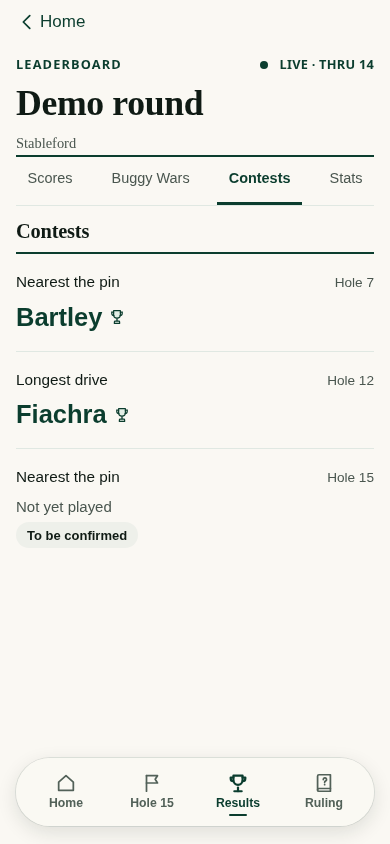
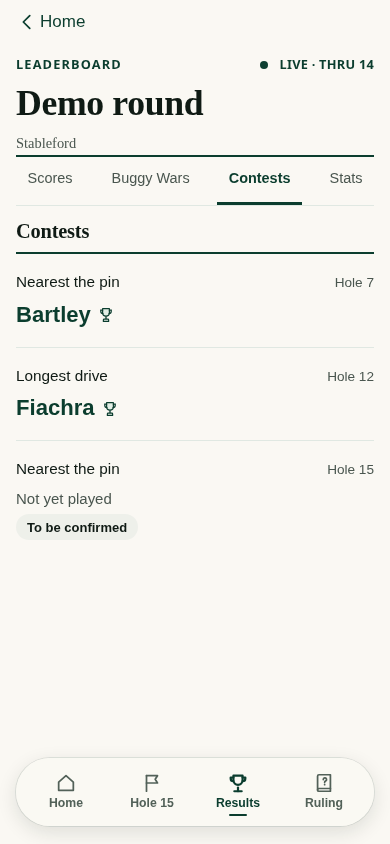
Align imported results, highlight tied leaders and retain readable final status

diff --git a/src/app/30-play.js b/src/app/30-play.js
@@ -856,7 +856,7 @@ VIEWS.board = () => {
   const fromSt = typeof stackOf === 'function' ? stackOf() : UI.stack;
   const backTo = fromSt && fromSt.length > 1 && fromSt[fromSt.length - 1].v === 'board' ? navBack(backLabel()) : '';
   const page = html => ({ tabs: 'board', html: `<div class="results-page">${html}</div>` });
-  let html = `${backTo}<header class="hero c lbhead"><div class="results-meta"><span>Leaderboard</span>${live0 ? `<span class="results-live"><span class="pulse"></span>Live${thru0 ? ' · thru ' + thru0 : ''}</span>` : statusPill(r)}</div><div class="hrow2"><h1 class="big">${esc(roundName(r))}</h1></div><p class="sub">${isScramble(r) ? 'Team scramble' : 'Stableford'}${r.date ? ' · ' + esc(fmtDate(r.date, true)) : ''}</p></header>`;
+  let html = `${backTo}<header class="hero c lbhead"><div class="results-meta"><span>Leaderboard</span>${live0 ? `<span class="results-live"><span class="pulse"></span>Live${thru0 ? ' · thru ' + thru0 : ''}</span>` : r.status === 'final' ? '<span class="pill g">Final</span>' : statusPill(r)}</div><div class="hrow2"><h1 class="big">${esc(roundName(r))}</h1></div><p class="sub">${isScramble(r) ? 'Team scramble' : 'Stableford'}${r.date ? ' · ' + esc(fmtDate(r.date, true)) : ''}</p></header>`;
   if (avail.length > 1) {
     const names = { lb: 'Scores', bw: 'Buggy Wars', ct: 'Contests', st: 'Stats' };
     html += `<div class="seg pills${avail.length > 3 ? ' four' : ''}" role="tablist">${avail.map(k => `<button class="${pillSel === k ? 'on' : ''}" role="tab" data-act="respill" data-p="${k}" aria-selected="${pillSel === k}">${names[k]}</button>`).join('')}</div>`;
@@ -880,9 +880,9 @@ VIEWS.board = () => {
   }
 
   if (res.source === 'scramble') return page(html + scrambleTable(r, res));
-  html += sec('', `<div class="standings"><div class="standings-head" aria-hidden="true"><span>Pos</span><span>Player</span><span>Pts</span></div>${cardOf(res.rows.map(x => {
+  html += sec('', `<div class="standings${res.source === 'app' ? ' expandable' : ''}"><div class="standings-head" aria-hidden="true"><span>Pos</span><span>Player</span><span>Pts</span></div>${cardOf(res.rows.map(x => {
     const inner = `<span class="sub">${x.posLabel}<span class="vh"> position</span></span>${avName(x, lbSub(res.rows, x, r), x.pos === 1)}<span class="r"><span class="b">${x.total}<span class="vh"> points</span></span>${res.source === 'app' ? dropChev : ''}</span>`;
-    return res.source === 'app' ? dropRow(sel, x, inner) : `<button class="lrow" data-act="player" data-pid="${x.id}" data-year="${r.season || ''}">${inner}</button>`;
+    return res.source === 'app' ? dropRow(sel, x, inner, `lrow${x.pos === 1 ? ' is-leader' : ''}`) : `<button class="lrow${x.pos === 1 ? ' is-leader' : ''}" data-act="player" data-pid="${x.id}" data-year="${r.season || ''}">${inner}</button>`;
   }).join(''))}</div>`, true);
   if (res.kb.length) { const low = E.kbLowest(res.kb); html += sec(label('KBs'), cardOf(res.kb.map(k => `<div class="lrow${low.includes(k) ? ' low' : ''}"><span class="sub">${k.posLabel}</span><span>${esc(k.name)}</span><span class="b r">${k.total}</span></div>`).join(''))); }
   html += `<button class="btn quiet" data-act="results" data-rid="${sel}">Share results</button>`;

diff --git a/src/styles.css b/src/styles.css
@@ -2169,7 +2169,8 @@ h1.title:not(.is-name), h1.big, .hrow2 h1.big { font-variant-numeric: lining-num
 .standings-head > :last-child { text-align: right; }
 .standings > .card { border-radius: 0; border: 0; box-shadow: none; background: transparent; overflow: visible; }
 .standings .lrow { min-height: 62px; padding-top: 10px; padding-bottom: 10px; background: transparent; border-top: 1px solid var(--line); }
-.standings .lrow:first-child { border-top: 2px solid var(--pine); background: var(--green-soft); }
+.standings .lrow:first-child { border-top: 2px solid var(--pine); }
+.standings .lrow.is-leader { background: var(--green-soft); }
 .standings .lrow .av { display: none; }
 .standings .lrow .lname { font-size: 1rem; font-weight: 600; }
 .standings .lrow > .sub { font-size: .9rem; font-weight: 500; }
@@ -2203,16 +2204,17 @@ h1.title:not(.is-name), h1.big, .hrow2 h1.big { font-variant-numeric: lining-num
 .results-page .ct-l { max-width: none; width: 100%; display: flex; flex-direction: row; justify-content: space-between; align-items: baseline; gap: 16px; font-size: .9rem; font-weight: 500; }
 .results-page .ct-l .sub { font-size: .8rem; white-space: nowrap; }
 .results-page .ct-r { align-items: flex-start; text-align: left; gap: 6px; }
-.results-page .ct-r .b { font-size: 1.5rem; line-height: 1.2; font-weight: 600; color: var(--pine); }
+.results-page .ct-r .b { font-size: 1.3rem; line-height: 1.2; font-weight: 600; color: var(--pine); }
 @media (min-width: 600px) {
   .results-page .sbadges { grid-template-columns: repeat(2, minmax(0, 1fr)); column-gap: 32px; }
   .results-page .sbd:nth-child(2) { border-top: 2px solid var(--pine); }
 }
 
 .results-page > .sec { margin-top: 12px; }
-.results-page .standings-head > :last-child { padding-right: 20px; }
+.results-page .standings.expandable .standings-head > :last-child { padding-right: 20px; }
 
 .results-page .scr-standings .card { border-radius: 0; border: 0; box-shadow: none; background: transparent; }
 .results-page .scr-standings .scr-row { border-top: 1px solid var(--line); background: transparent; padding: 14px 12px; }
 .results-page .scr-standings .scr-row:first-child { border-top: 2px solid var(--pine); }
 .results-page .scr-standings .scr-row.low { background: var(--green-soft); border-left: 3px solid var(--pine); }
+.results-page .results-meta .pill { background: var(--green-soft); color: var(--pine); font-size: .7rem; letter-spacing: .04em; }

diff --git a/src/app/20-society.js b/src/app/20-society.js
@@ -306,7 +306,7 @@ VIEWS.players = () => {
 };
 
 function goyRow(x, season) {
-  return `<button class="lrow goy" aria-label="${esc(x.name)}, position ${esc(x.posLabel)}, ${x.total} points. Counting scores: ${x.counting.map(c => c.pts).join(', ')}" data-act="player" data-pid="${x.id}" data-year="${season}"><span class="sub">${x.posLabel}</span>${avName(x, `<span class="chips">${x.counting.map(c => `<i class="chipn">${c.pts}</i>`).join('')}</span>`, false, true)}<span class="b r tot">${x.total}</span></button>`;
+  return `<button class="lrow goy${x.pos === 1 ? ' is-leader' : ''}" aria-label="${esc(x.name)}, position ${esc(x.posLabel)}, ${x.total} points. Counting scores: ${x.counting.map(c => c.pts).join(', ')}" data-act="player" data-pid="${x.id}" data-year="${season}"><span class="sub">${x.posLabel}</span>${avName(x, `<span class="chips">${x.counting.map(c => `<i class="chipn">${c.pts}</i>`).join('')}</span>`, false, true)}<span class="b r tot">${x.total}</span></button>`;
 }
 
 VIEWS.goy = () => {

diff --git a/docs/review/RESULTS-REFINEMENT-2026-10-29.md b/docs/review/RESULTS-REFINEMENT-2026-10-29.md
@@ -5,7 +5,7 @@ A working-app design candidate based on released main `b2d849d`. The owner asked
 ## Design decisions
 
 - **The competition leads.** The course replaces the generic large Leaderboard title; Leaderboard and live/final state remain in a small masthead. Format/date sit underneath. The repeated round-title section is removed.
-- **Scores read as a ledger.** Rank, player and points have aligned column headings. Initials circles are removed from these standings, with full player names and progress retained. A quiet first-row tint and pine rule establish the hierarchy. Tap-to-expand scorecards still work.
+- **Scores read as a ledger.** Rank, player and points have aligned column headings. Initials circles are removed from these standings, with full player names and progress retained. A quiet tint on every shared leader and a pine rule establish the hierarchy. Tap-to-expand scorecards still work.
 - **Results navigation is quieter.** Underlined text tabs replace four competing outlined pills within this screen. The main glass navigation and primary action buttons retain their approved forms. Selection remains explicit and touch targets remain generous.
 - **The season belongs to the same family.** A clear season label, restrained leader panel and matching standings replace the oversized summary and collection of score badges. Counting scores remain visible as simple separated values; archive controls and eligibility are unchanged.
 - **Contests celebrate the result.** Each contest names the challenge and hole, then gives the golfer's name the prominence. Existing provisional, confirmed, nobody and waiting states are retained; no winner is inferred from an unfinished contest.
@@ -24,6 +24,12 @@ All pairs show the same fixture and 390px phone width. Full-page images include 
 | Season | ![Previous season standings](results-refinement-2026-10-29/before-goy.png) | ![Refined season standings](results-refinement-2026-10-29/after-goy.png) |
 | Contests | ![Previous contests](results-refinement-2026-10-29/before-contests.png) | ![Refined contests](results-refinement-2026-10-29/after-contests.png) |
 | Stats | ![Previous round statistics](results-refinement-2026-10-29/before-stats.png) | ![Refined match report](results-refinement-2026-10-29/after-stats.png) |
+
+### Imported results and shared leaders
+
+![Aligned imported standings with both tied leaders highlighted](results-refinement-2026-10-29/imported-ties.png)
+
+This additional invented imported-result fixture exercises shared first place and three-digit totals. Its points heading aligns without an expansion-arrow allowance. The normal app results retain their arrow spacing. The Final label remains visible on the ivory header.
 
 ## Validation and integration
 
